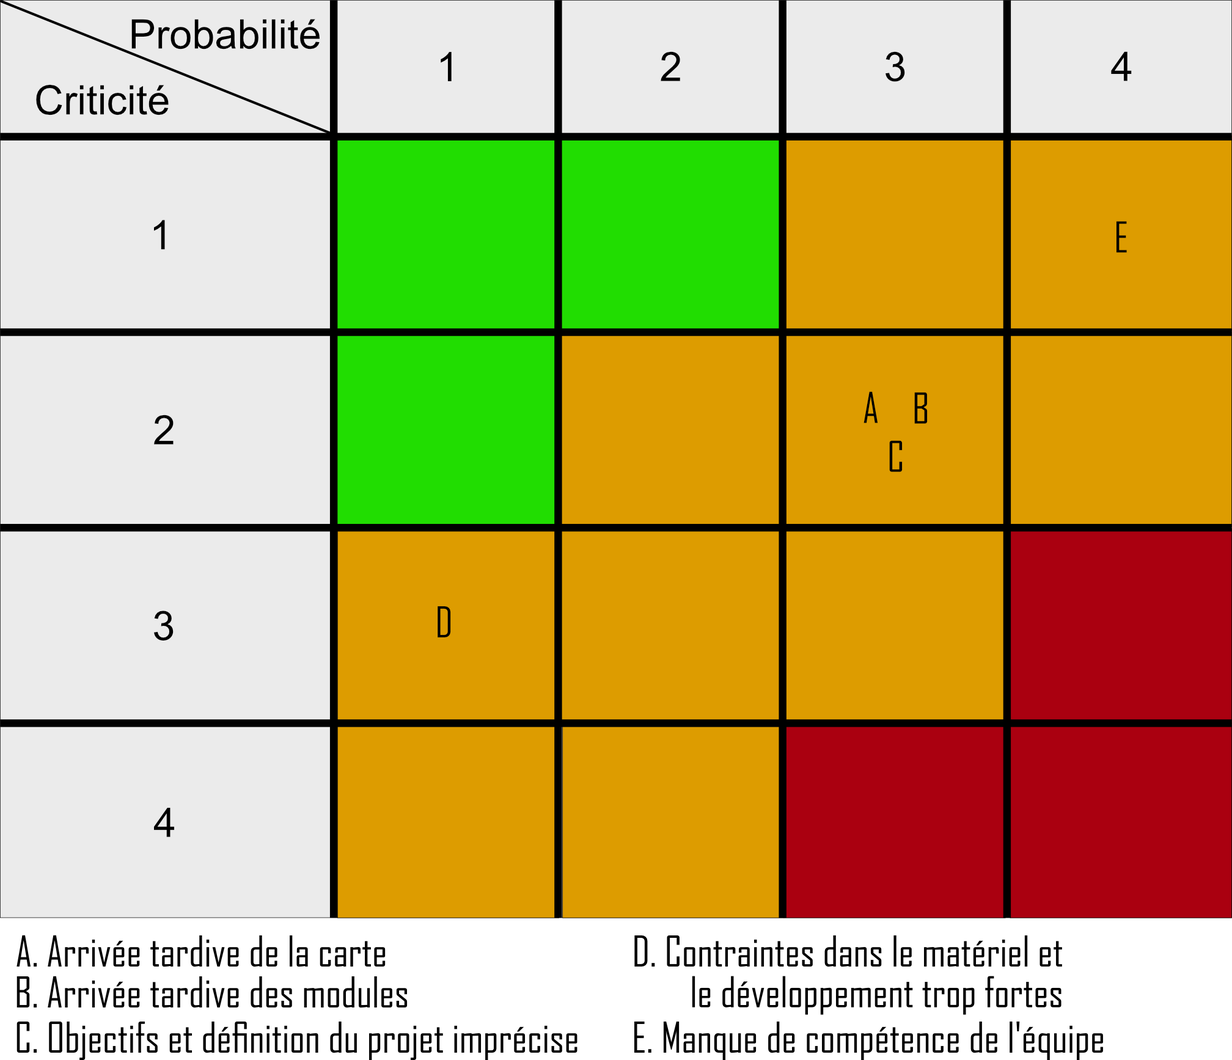
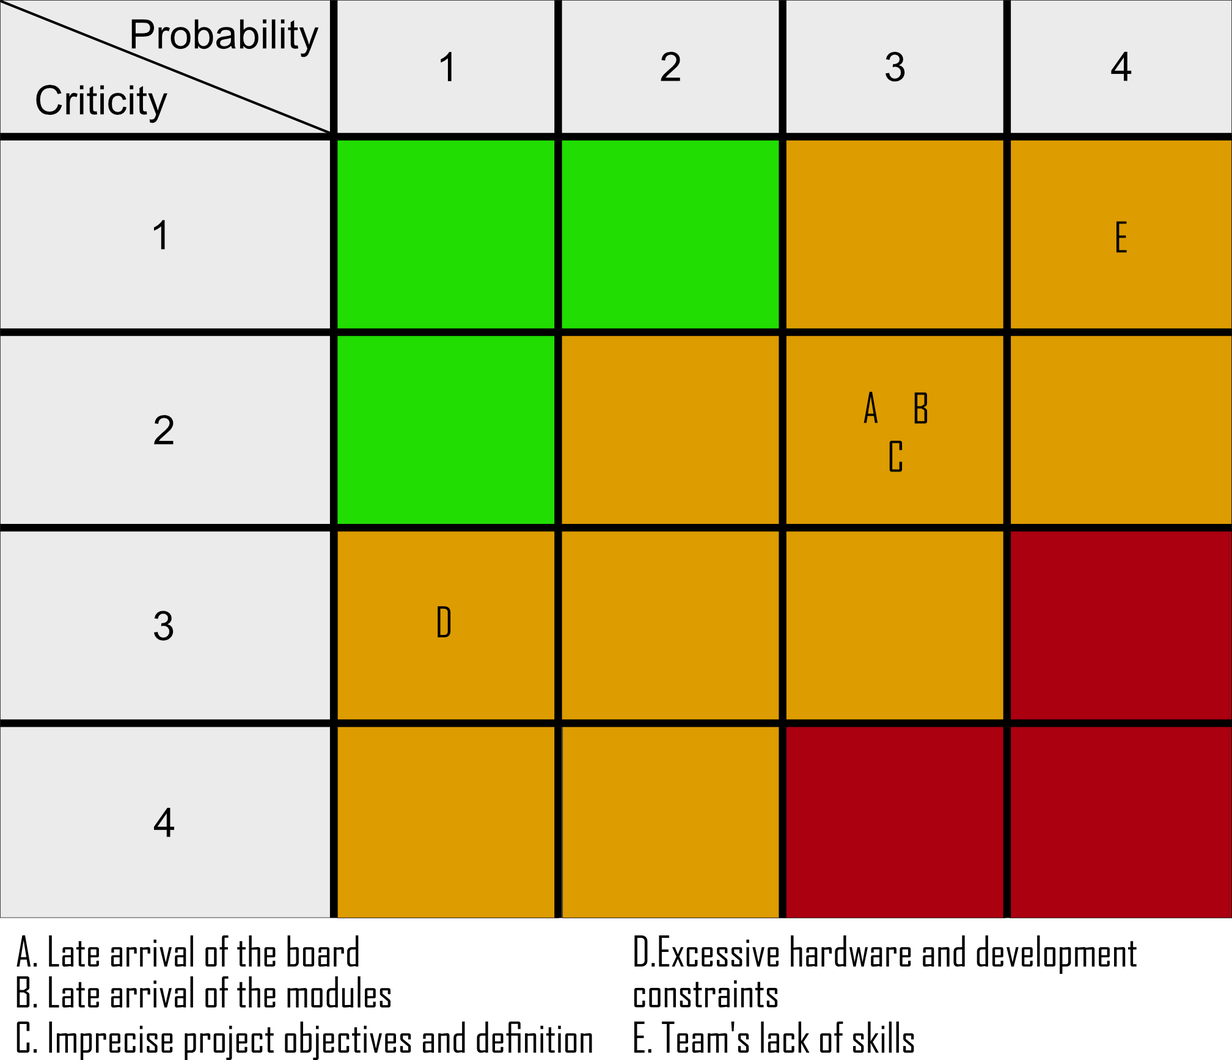
Report Update
Translation from FR to EN

Changed region(s): [[0.5, 0.871, 0.9062, 1.0], [0.0312, 0.871, 0.5, 1.0], [0.125, 0.0933, 0.1562, 0.1244]]

diff --git a/reports/Report.md b/reports/Report.md
@@ -71,71 +71,69 @@ This description ultimately serves to fulfill the need to introduce middle schoo
 > - on github : <https://github.com/Robin-Courault/pxt-kit-pedagogique-iot-meteo/tree/main>
 >   - check each branch
 
-La gestion de projet s'est orientée vers les objectifs suivants :
+Project management focused on the following objectives:
 
-- faire la majeure partie du travail lors des séances réservées dans l'emploi du temps
-- maitrise de toutes les parties du projet par toute l'équipe
-- égalisation des compétences de l'équipe pour faire en sorte que toute l'équipe atteigne un niveau commun.
+- performing the bulk of the work during the sessions specifically reserved in the schedule
+- ensuring all parts of the project are mastered by the entire team
+- leveling up the team's skills to ensure everyone reaches a common level of proficiency.
 
 ### 3.1. Management Methods
 
-Pour la gestion de projet, nous avons choisi de suivre une méthode agile, un cycle itératif. Toutes les 2 semaines environ, des modifications dans les exigences et de nouvelles découvertes entrainent de nouveaux cycles. Tout au long du projet, des parties de livrables ont été régulièrement déployables. De plus, nous avons intégré notre cliente potentielle dans la démarche projet, peut-être un peu trop tardivement. Cependant notre maître d'ouvrage était intégré dès le début et l'a été tout au long du projet.
+For project management, we chose to follow an agile method based on an iterative cycle. Approximately every two weeks, changes in requirements and new discoveries led to new cycles. Throughout the project, parts of the deliverables were regularly deployable. Additionally, we integrated our potential client into the project process, though perhaps a bit too late. However, our project owner was integrated from the start and remained so throughout the project.
 
-Chaque séance de travail débutait par une petite réunion sur le travail de la dernière séance, un petit récapitulatif du travail restant puis la répartition du travail pour la séance. Cette répartition se faisait en discussion à l'amiable mais en règle générale, les membres ayant quelque chose à terminer, continuait sur leur travail. Pour les autres cas, chacun choisissait ce qu'il souhaitait parmi le travail restant à faire, il arrivait également régulièrement que l'un des membres de l'équipe demande à l'autre de continuer ou reprendre son travail afin d'avoir une autre vision.
+Each work session began with a short meeting regarding the work from the previous session, a brief recap of the remaining work, and then the distribution of tasks for the session. This distribution was handled through amicable discussion, but as a general rule, members who had a task to finish continued their work. In other cases, everyone chose what they wanted from the remaining tasks; it also frequently happened that one team member would ask another to continue or take over their work to provide a fresh perspective.
 
-Cette organisation nous a permis de garantir nos objectifs de maitrise globale du projet et d'égalisation des compétences grâce au fait que chaque partie du projet pouvait avancer et développer ses compétences sur la tâche de son choix. L'excellente motivation de l'équipe projet a permis de faire fonctionner cette méthode sur les premières semaines du projet, cependant à mesure que le projet avance, la motivation de l'équipe a diminué et ce n'est que la volonté de terminer qui a maintenu le fonctionnement de cette méthode d'organisation. La faible taille de l'équipe a également contribué au fonctionnement de cette méthode.
+This organization allowed us to guarantee our objectives of global project mastery and skills leveling, as each part of the project could progress and develop skills on the task of their choice. The project team's excellent motivation allowed this method to work during the first few weeks of the project; however, as the project progressed, team motivation decreased, and it was only the will to finish that maintained the functionality of this organizational method. The small size of the team also contributed to the success of this approach.
 
-Tout le travail restant à faire a été géré grâce à l'outil `Jira`, nous permettant de maintenir un suivi des différentes tâches et sous-tâches à réaliser, l'ensemble des tâches a été réalisé et actualisé en parallèle des mouvements du cahier des charges. Nous avons choisi `Jira` car un membre de l'équipe connaissait déjà l'outil, et qu'il permettait d'avoir un tableau des tâches, sous-tâche ainsi qu'un planning ordonné prenant un aspect proche d'un diagramme de Gantt. A posteriori, l'outil était bien trop lourd, l'un des membres du projet mettant parfois quasiment une minute à charger chaque page de l'outil, les modifications s'appliquaient avec des délais d'une dizaine de secondes et le nombre de clics à effectuer pour modifier une sous-tâche était bien trop important (de l'ordre de 4 ou 5, avec certains boutons perdus dans une interface extrêmement riche), de plus, l'outil étant très complet, la complexité d'utilisation a été un frein. `Jira` emportait également trop de composants pour la taille de notre projet, nous n'avons utilisé que le `board`, la `timeline` et la `list` sur les plus de 14 composants de l'outil. Le choix d'un outil plus simple et plus léger aurait été d'avantage pertinent.
+All remaining work was managed using the `Jira` tool, allowing us to maintain tracking of the various tasks and sub-tasks to be completed; all tasks were carried out and updated in parallel with shifts in the specifications. We chose `Jira` because one team member was already familiar with the tool, and it provided a board for tasks and sub-tasks as well as an ordered schedule similar to a Gantt chart. In hindsight, the tool was far too heavy: one project member sometimes took nearly a minute to load each page, changes were applied with delays of about ten seconds, and the number of clicks required to modify a sub-task was far too high (around 4 or 5, with some buttons lost in an extremely dense interface). Furthermore, as the tool is very comprehensive, its complexity was a hindrance. `Jira` also included too many components for the scale of our project; we only used the `board`, `timeline`, and `list` out of the more than 14 available components. Choosing a simpler, lighter tool would have been more relevant.
 
-Pour ce qui est des autres outils utilisés, du côté des environnement pour le développement, `VSCode` et `neovim` ont été utilisés, pour `VSCode`, l'intérêt était un excellent support et des extensions pour le développement (complétion, coloration) pour `TypeScript`, dont nous reparlerons plus tard, comme les deux viennent de `Microsoft`. De plus `VSCode` était maitrisé par une partie de l'équipe et était capable d'être utilisé sur les autres types de documents manipulés grâce à ses extensions, facilitant ainsi l'écriture des fichiers `Markdown`, la lecture des PDFs, des images et du JSON depuis le même outil. Pour `neovim`, il a été utilisé car l'autre partie de l'équipe ne souhaitait pas utiliser d'IDE (Integrated Development Environment) à client lourd ayant un ordinateur avec peu de performances, connaissait d'avantage cet outil. L'interface `Playground` en ligne de `Microsoft MakeCode` a également été beaucoup utilisé notamment pour tester les effets du code et son fonctionnement sur l'interface `MakeCode` et sur la carte `Micro:bit`, les tests via l'interface `MakeCode` directement étant plutôt lourds puisque nécessitant une installation locale (de plusieurs Giga octets). Cette interface `Playground` est également utile pour développer puisqu'elle embarque un éditeur avec de l'auto-complétion `TypeScript` mais également sur les bibliothèques spécifiques à `MakeCode` et à la carte `Micro:bit`.
+Regarding other tools used, for the development environments, `VSCode` and `neovim` were employed. For `VSCode`, the interest lay in its excellent support and extensions for development (completion, syntax highlighting) for `TypeScript`—which we will discuss later—as both come from `Microsoft`. Additionally, `VSCode` was mastered by part of the team and could be used for other types of documents thanks to its extensions, facilitating the writing of `Markdown` files and the reading of PDFs, images, and JSON within the same tool. `neovim` was used because the other part of the team did not want to use a heavyweight IDE (Integrated Development Environment) on a low-performance computer and was more familiar with this tool. The online `Playground` interface from `Microsoft MakeCode` was also used extensively, notably to test code effects and functionality on the `MakeCode` interface and the `Micro:bit` board; testing via the direct `MakeCode` interface was quite heavy as it required a local installation (of several gigabytes). This `Playground` interface is also useful for development as it includes an editor with `TypeScript` auto-completion, as well as for libraries specific to `MakeCode` and the `Micro:bit`.
 
-Pour continuer sur les outils de code, nous avons utilisé `Git` et notamment les dépôts `github`, tout d'abord car `Git` est le seul outil de versioning que nous connaissions et maitrisions. Le versioning étant nécessaire dans tout projet pour garantir d'être capable de maintenir un arbre de l'évolution des versions d'un projet et être capable de revenir à une version antérieure en cas de problème. `Github` nous a été imposé pour la création d'une extension pour `Microsoft MakeCode`, ce dernier n'acceptant que les dépôts `github` pour importer des extensions. `MakeCode` quant à lui, a été la destination imposé par notre maitre d'oeuvre et d'ouvrage monsieur DONSEZ pour l'extension car c'est celle que le client utilisait ou souhaitait. L'utilisation de `MakeCode` a également imposé l'utilisation du langage `TypeScript` pour écrire l'extension, étant le seul langage réellement accepté malgré des méthodes existantes pour utiliser du `C++` mais ces dernières sont très mal documentées.
+To continue with coding tools, we used `Git` and specifically `GitHub` repositories—primarily because `Git` is the only versioning tool we knew and mastered. Versioning is necessary in any project to ensure the ability to maintain a history of project versions and to be able to revert to a previous version in case of problems. `GitHub` was required for the creation of a `Microsoft MakeCode` extension, as the latter only accepts `GitHub` repositories for importing extensions. `MakeCode` itself was the destination imposed by our project manager and owner, Mr. DONSEZ, for the extension because it was the one the client used or desired. Using `MakeCode` also dictated the use of the `TypeScript` language to write the extension, as it is the only truly accepted language despite existing methods for using `C++`, which are very poorly documented.
 
-Continuons avec le matériel, du côté de la carte et des différents capteurs, notre maitre d'ouvrage nous a imposé le choix de la `Micro:bit V2` pour la carte, ce qui ne nous semble pas particulièrement judicieux du point de vue développement, de part l'absence de bibliothèques pour utiliser la totalité des modules matériels nous ayant été fournis, cependant la carte a les avantages d'être peu onéreuse (~20€) et d'avoir plusieurs interfaces no-code, elle est donc adapté à une utilisation en collège et donc au besoin identifié pour le projet. Pour les capteurs et émetteurs, au vu du nombre de modules existants et du temps imparti, il nous a été appréciable de ne pas avoir à choisir par nous même, les modules étaient plutôt bien documentés puisque nous avons trouvé rapidement les documentations nécessaires lorsque nous savions quoi chercher.
+Moving on to hardware, regarding the board and various sensors, our project owner imposed the choice of the `Micro:bit V2`. This did not seem particularly wise from a development perspective due to the lack of libraries for utilizing all the hardware modules provided to us. However, the board has the advantages of being inexpensive (~€20) and having several no-code interfaces; it is therefore suited for middle school use and thus for the needs identified for the project. For the sensors and transmitters, given the number of existing modules and the time allotted, we appreciated not having to choose them ourselves; the modules were quite well-documented, as we quickly found the necessary documentation once we knew what to look for.
 
-Pour terminer sur les outils, la communication a été effectuée à l'oral en présentiel, via `Discord` ou via les `SMS`, le premier étant le plus simple et le plus direct, les deux autres paliant les moments à distance. Le `SMS` a été choisi car plus rapide, l'un des membres de l'équipe n'ayant pas de `Smartphone`, les SMS étaient appropriés lors d'échanges demandant une faible latence, comme la communication organisationnelle, à savoir les problèmes d'emploi du temps ou les impossibilités de présence par exemple. `Discord` a été choisi pour le reste de la communication à distance, déjà utilisé dans les communications étudiantes dans la classe, toute l'équipe en avait la maitrise et possédait un compte, de plus, il est bien plus aisé de lire de gros textes sur un ordinateur que sur un téléphone (`Discord` permettant les deux). Les `emails` ont également été utilisés, surtout pour communiquer avec les autres parties prenantes car nous ne possédions leur contact que sur ce canal pour certains, cela permettait d'informer toutes les parties prenantes quand cela était nécessaire.
-Aucun des outils utilisé pour la communication ne garantissait réellement la confidentialité des échanges, cela n'était cependant pas un problème puisque le projet n'avait pas de contrainte de confidentialité.
+Finally, regarding tools, communication was conducted orally in person, via `Discord`, or via `SMS`. The former was the simplest and most direct, while the other two covered remote moments. `SMS` was chosen because it is faster; as one team member did not have a smartphone, SMS was appropriate for low-latency exchanges, such as organizational communication (e.g., scheduling issues or absences). `Discord` was chosen for the rest of the remote communication; already used for student communications in the class, the entire team mastered it and had an account. Furthermore, it is much easier to read large texts on a computer than on a phone (`Discord` allows for both). `Emails` were also used, mainly to communicate with other stakeholders as we only had their contact info via this channel; this allowed us to inform all parties when necessary.
+None of the tools used for communication truly guaranteed the confidentiality of exchanges; however, this was not an issue as the project had no confidentiality constraints.
 
 ### 3.2. Risks Analysis & Planning
 
-Voici ci-dessous le diagramme de Gantt de notre projet, c'est un Gantt qui contient le Gantt originel sur lequel nous avons ajouté le Gantt de fin de projet. Les éléments rayés avec un gris sombre représentent les parties que nous avons annulés, les parties encadrées de vert sont quant à elles les parties terminées que nous avons conservé dans notre objectif de rendu final, après les nombreuses péripéties auxquelles nous avons fait face, notamment l'absence de certains modules initialements prévus ou l'impossibilité temporelle d'effectuer certaines tâches. La partie bleue (non rayée) des tâches représente la partie terminée des tâches.
+Below is the Gantt chart for our project. This chart contains the original Gantt onto which we have overlaid the end-of-project Gantt. Elements crossed out in dark gray represent parts we cancelled; parts framed in green are the completed parts we kept for our final submission goal, following the many setbacks we faced—notably the absence of certain modules initially planned or the lack of time to perform certain tasks. The blue (not crossed out) section of the tasks represents the completed portion of those tasks.
 
-On peut voir que nous avons dû éliminer de nombreuses parties initialement prévues, notamment une bonne partie du sujet que nous avions rédigée, n'a finalement pas été conservée, nous entendons ici par "conservée", que c'est une partie qui a été finie mais qui ne sera pas utile puisqu'elle concerne des parties sur des capteurs que nous n'avons pas obtenu qui sortent donc du contexte du projet. On peut notamment voir les capteurs d'humidité et de pression, dont la partie d'implémentation a également été annulée pour cette raison. L'implémentation du `LoRa` a été annulée surtout par manque de temps mais également car des membres d'un autre groupe plus spécialisés que nous sur l'aspect électronique embarqué n'ont pas réussi à faire fonctionner le `LoRa` sur la `Micro:bit` malgré plus de temps, de compétences et de moyens humains que notre groupe. La partie concernant le ballon météo a été annulé surtout par manque de temps mais également en conséquence aux autres annulations, un ballon météo capable seulement de mesurer la température et de se localiser n'est pas vraiment complet.
+It can be seen that we had to eliminate many parts initially planned; notably, a significant portion of the subject we had drafted was ultimately not kept. By "kept," we mean that it is a part that was finished but will not be useful as it concerns sensors we did not obtain, which therefore fall outside the project context. This specifically applies to the humidity and pressure sensors, for which implementation was also cancelled for this reason. The implementation of `LoRa` was cancelled primarily due to a lack of time, but also because members of another group, more specialized than us in embedded electronics, failed to make `LoRa` work on the `Micro:bit` despite having more time, expertise, and human resources. The part concerning the weather balloon was cancelled mainly due to lack of time but also as a consequence of other cancellations: a weather balloon only capable of measuring temperature and locating itself is not truly complete.
 
 ![Figure 2: Gantt Chart with cancelled tasks](Gantt_en.png "Figure 2: Gantt Chart with cancelled tasks")
 
-Ceci illustre parfaitement les nombreux aléas auxquels nous avons fait face et nos difficultés à obtenir un projet clair.
-Ce diagramme de Gantt illustre également parfaitement le fait que nous n'ayons pas identifié de nombreux risques ou que nous n'avons pas bien évalué leur probabilité ou l'impact qu'ils pouvaient avoir sur le projet. Mais nous allons le voir plus en détails dans très peu de temps en parlant de notre analyse des risques.
+This perfectly illustrates the many hazards we faced and our difficulties in achieving a clear project. This Gantt chart also perfectly illustrates the fact that we did not identify many risks or that we did not properly assess their probability or the impact they could have on the project. We will look at this in more detail momentarily when discussing our risk analysis.
 
-**Risques identifiés au départ :**
+**Risks identified at the start:**
 
-- **A.** Arrivée tardive de la carte => **Acceptation**, c'est un risque important mais contre lequel on ne peut pas vraiment faire quelque chose dans le contexte de ce projet. Cela nous empêcherait de faire des tests aussi bien sur la carte que sur les modules. On connait tout de même la carte avant de la recevoir.
-- **B.** Arrivée tardive des modules => **Réduction**, risque important car empêchant de faire les drivers (car aucune idée du modèle pour certains modules) et les tests, nous avons réduit l'impact en anticipant la conception afin de ne pas retarder l'ensemble du projet si le risque se transformait en certitude.
-- **C.** Objectifs et définition du projet imprécise => **Réduction** (de l'impact), par l'intégration de validations et révisions régulières du cahier des charges dans l'organisation. Ce risque, si il se réalise, peut provoquer des changements importants et nous faire perdre du temps en nous obligeant à jeter du travail réalisé.
-- **D.** Contraintes dans le matériel et le développement trop fortes => **Acceptation**, risque de mauvais choix pour coller aux contraintes et d'un développement trop complexifié. Accepté car c'est quelque chose pour lequel nous n'avions aucun poids de décision.
-- **E.** Manque de compétence de l'équipe => **Acceptation** (Provisionnement), c'est un risque accepté en choisissant de réserver du temps pour la montée en compétence.
+- **A.** Late arrival of the board => **Acceptance**: this is a significant risk, but one we cannot really do anything about in the context of this project. This would prevent us from testing both the board and the modules. However, we were familiar with the board before receiving it.
+- **B.** Late arrival of the modules => **Reduction**: a high risk as it prevents creating drivers (as we had no idea of the model for some modules) and testing. We reduced the impact by anticipating the design so as not to delay the entire project if the risk became a certainty.
+- **C.** Imprecise project objectives and definition => **Reduction** (of impact): by integrating regular validations and revisions of the specifications into the organization. If realized, this risk can cause major changes and waste time by forcing us to discard completed work.
+- **D.** Excessive hardware and development constraints => **Acceptance**: risk of poor choices to fit constraints and overly complex development. Accepted because it was something we had no decision-making power over.
+- **E.** Team's lack of skills => **Acceptance** (Provisioning): this is a risk accepted by choosing to reserve time for skill building.
 
-![Figure 3: Risks Matrix en début de projet](MatriceCriticiteRisques.png "Figure 3: Risks Matrix en début de projet")
+![Figure 3: Risk Matrix at the start of the project](MatriceCriticiteRisques.png "Figure 3: Risk Matrix at the start of the project")
 
-**Réévaluation des risques en fin de projet et nouveaux risques :**
+**Re-evaluation of risks at the end of the project and new risks:**
 
-- F. Contraintes des utilisateurs finaux divergents des contraintes données par le maitre d'ouvrage et d'oeuvre => **Evitement** (ou a minima **Réduction**) en communiquant et intégrant d'avantage les utilisateurs finaux en l'occurence ici, Christel HARDY, au projet.
-- G. Non Fonctionnement d'un module sur notre carte (Micro:Bit) => **Evitement** en changeant de module ou de carte. Ou en retirant ce module du cahier des charges dans le pire des cas. Ou encore **Réduction** en sélectionnant une carte ayant d'avantages de support et de bibliothèques matérielles.
-- H. Non arrivée des modules prévus => **Acceptation** car peu de chance que cela arrive, mais très problèmatique car éventuellement perte de temps en jetant du travail déjà réalisé.
+- **F.** Final user constraints diverging from constraints given by the project owner and manager => **Avoidance** (or at least **Reduction**) by communicating more with and further integrating the final users (in this case, Christel HARDY) into the project.
+- **G.** Module not functioning on our board (Micro:bit) => **Avoidance** by changing the module or the board. Or by removing this module from the specifications in the worst-case scenario. Or **Reduction** by selecting a board with better support and hardware libraries.
+- **H.** Non-arrival of planned modules => **Acceptance** because there is little chance of this happening, but very problematic as it potentially wastes time by discarding work already performed.
 
-![Figure 4: Risks Matrix en fin de projet](MatriceCriticiteRisquesPostProjet.png "Figure 4: Risks Matrix en fin de projet")
+![Figure 4: Risk Matrix at the end of the project](MatriceCriticiteRisquesPostProjet.png "Figure 4: Risk Matrix at the end of the project")
 
-Comme on peut le voir, plusieurs risques imprévus en début de projet se révèlent critiques si ils se réalisent, problème étant qu'ils sont arrivés sans que nous ayons anticipé des stratégies de mitigation. Trois des cinq risques initiaux se sont révélés plus impactant que prévu ce qui nous a également porté préjudice.
+As can be seen, several risks unforeseen at the start of the project proved critical when realized. The problem was that they occurred without us having anticipated mitigation strategies. Three of the five initial risks proved more impactful than expected, which also worked to our detriment.
 
 ### 3.3. Financial Assessment
 
-Ce projet s'est déroulé avec peu de moyens, mais suffisant sauf au niveau du temps, nous avions : 
-- 2 ordinateurs portables
+This project was carried out with limited resources, though they were sufficient except regarding time. we had:
+- 2 laptops
 - 2 Micro:bit V2
-- 1 module GPS XA1110
-- 2 émetteurs/récepteurs LoRa, Wio-SX1262
-- 2 étudiants (Robin COURAULT & Sophie HAUGUEL) durant approximativement 50h, soit une centaine d'heures de travail humain.
-
+- 1 XA1110 GPS module
+- 2 LoRa transceivers, Wio-SX1262
+- 2 students (Robin COURAULT & Sophie HAUGUEL) for approximately 50 hours each, totaling about one hundred man-hours.
 
 `\newpage{}`{=latex}
 
